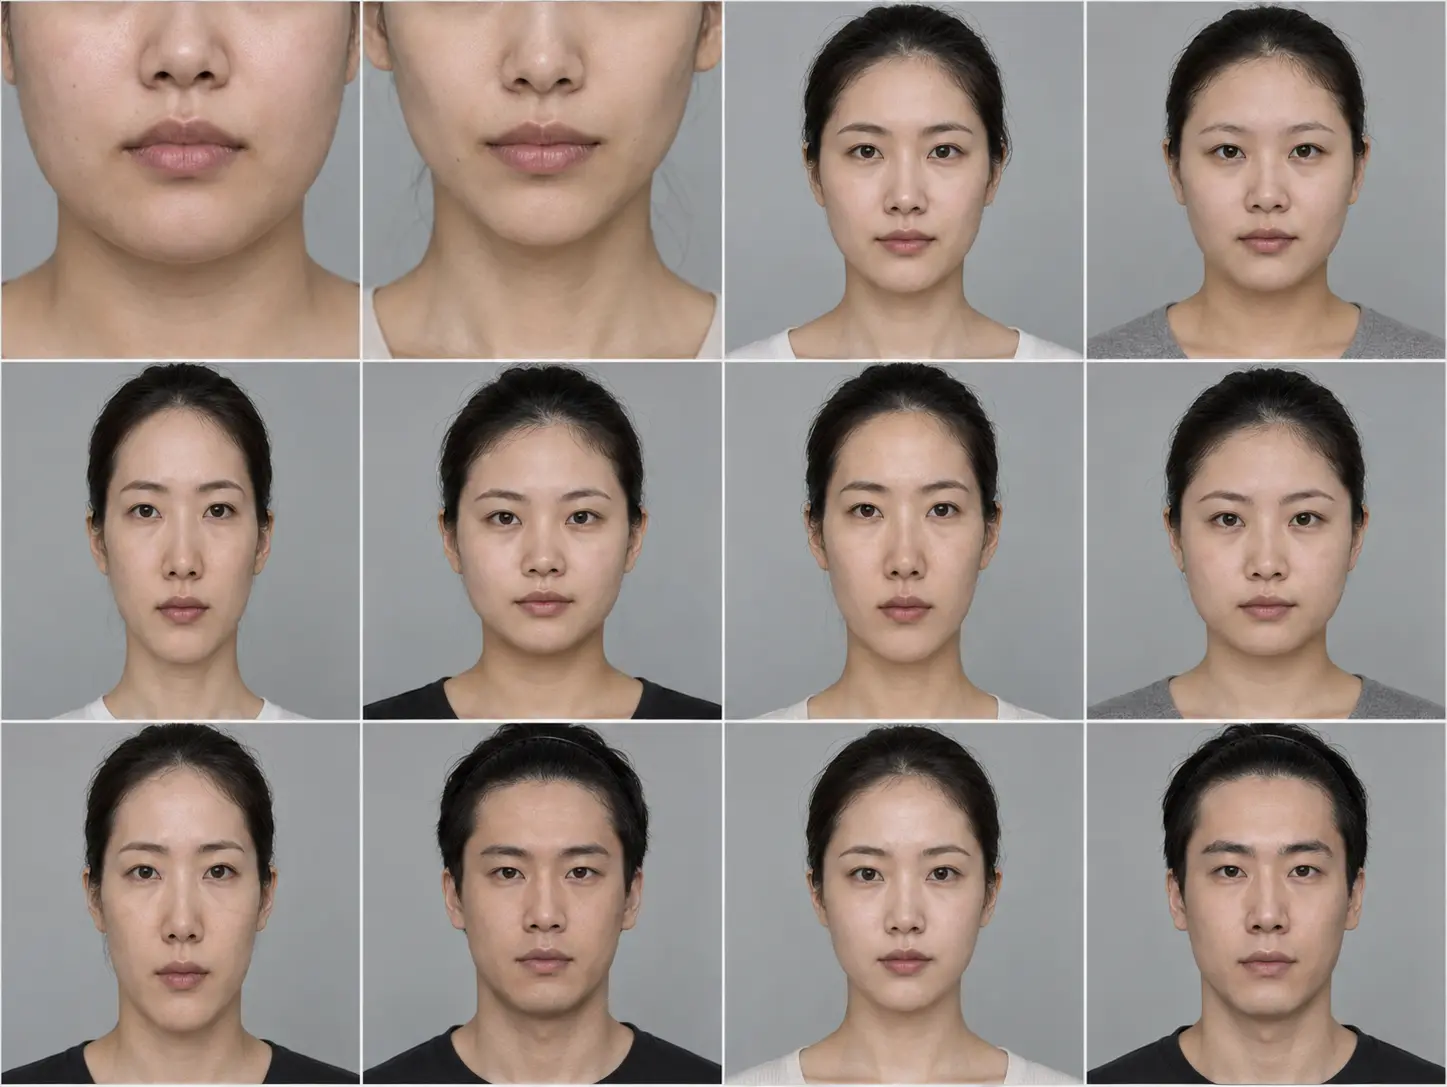
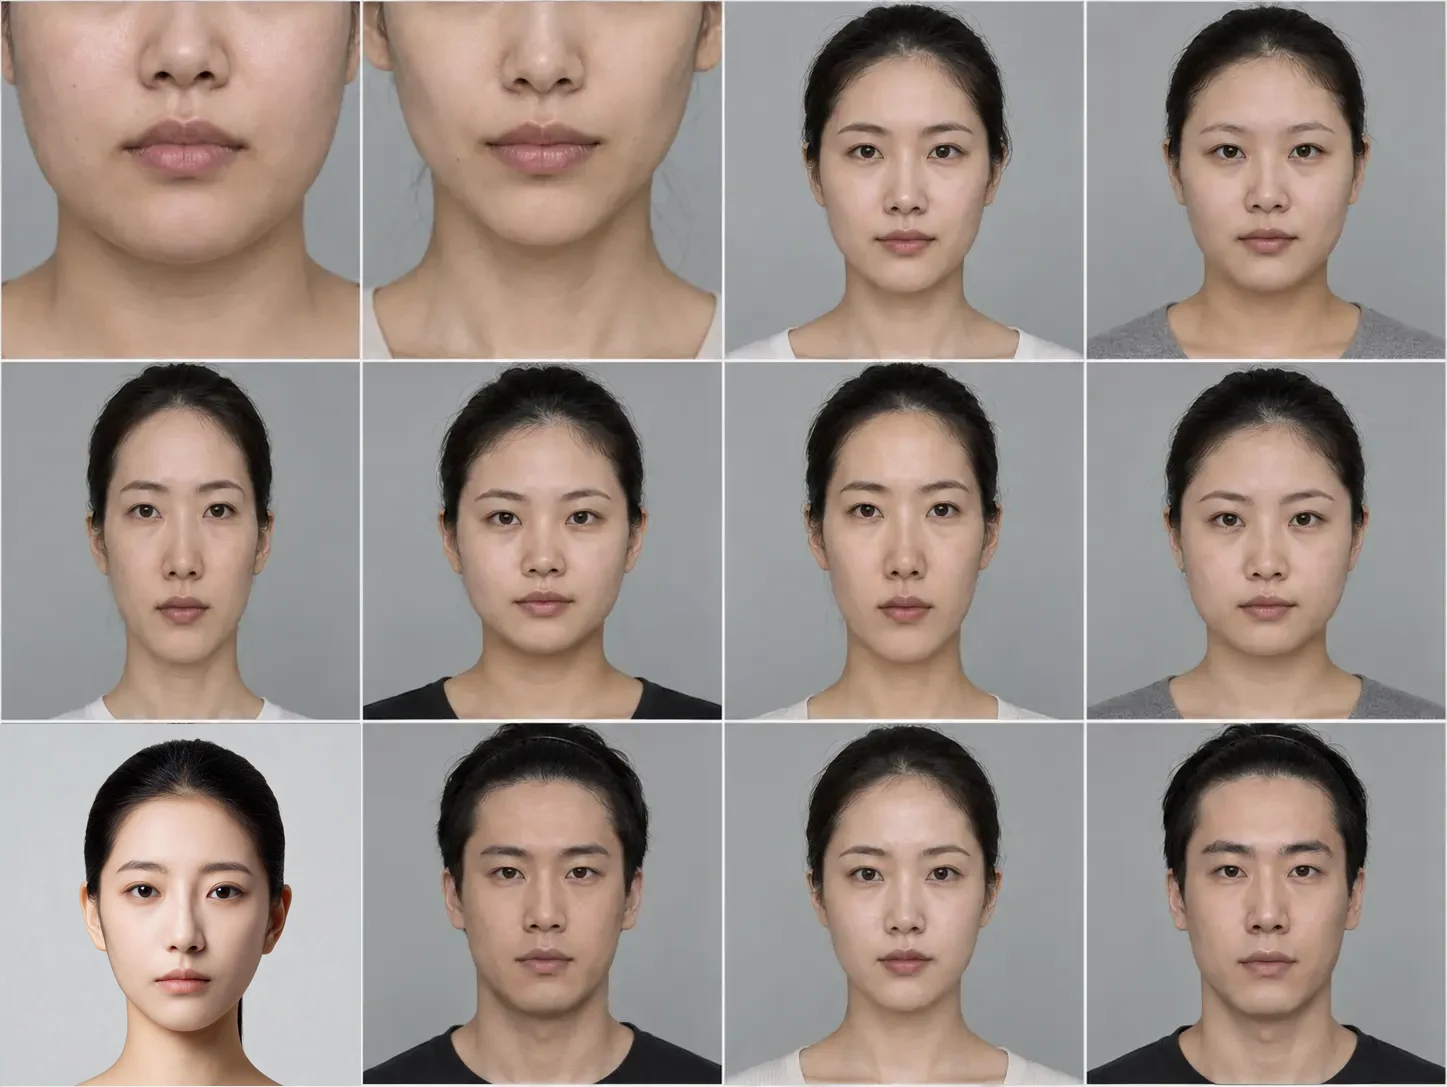
fix: 替换6张效果不佳的身形/面部参考图为更写实的版本
- 手指偏短：替换为真实皮肤纹理的手部特写
- 鼻背偏左/鼻背偏右：去除异常红痕，呈现自然的鼻梁侧向偏斜
- 表层偏青：淡化夸张的绿膜感，改为极淡的青灰肤色
- 下庭长：突出鼻底至下巴的纵向长度
- 上半脸不对称：眉眼区域呈现自然的左右差异
- examples-data.js ASSET_VERSION 升至 20261019b，引用版本 1.27→1.28

Changed region(s): [[0.0, 0.6679, 0.2488, 1.0]]

diff --git a/beauty.html b/beauty.html
@@ -128,7 +128,7 @@
   <script src="./brand-products-data.js"></script>
   <script src="./brand-products-expansion.js?v=2.6"></script>
   <script src="./brand-product-images.js?v=2.6"></script>
-  <script src="./examples-data.js?v=1.27"></script>
+  <script src="./examples-data.js?v=1.28"></script>
   <script src="./sources-data.js?v=1.12"></script>
   <script src="./beauty.js?v=3.12"></script>
 </body>

diff --git a/recognize.html b/recognize.html
@@ -138,7 +138,7 @@
   </footer>
 
   <script src="./beauty-data.js?v=3.30"></script>
-  <script src="./examples-data.js?v=1.27"></script>
+  <script src="./examples-data.js?v=1.28"></script>
   <script src="./body-data.js?v=1.8.5"></script>
   <script src="./body-examples.js?v=1.8"></script>
   <script type="module" src="./recognize.js?v=1.9"></script>

diff --git a/index.html b/index.html
@@ -159,7 +159,7 @@
   </dialog>
 
   <script src="./data.js?v=5.6"></script>
-  <script src="./examples-data.js?v=1.27"></script>
+  <script src="./examples-data.js?v=1.28"></script>
   <script src="./sources-data.js?v=1.12"></script>
   <script src="./app.js?v=3.14"></script>
 </body>

diff --git a/examples-data.js b/examples-data.js
@@ -1,5 +1,5 @@
 (() => {
-  const ASSET_VERSION = '20261019a';
+  const ASSET_VERSION = '20261019b';
   const sheet = (file, col, row, alt) => ({
     file: `./assets/examples/${file}?v=${ASSET_VERSION}`,
     x: ['0%', '33.333%', '66.667%', '100%'][col],
